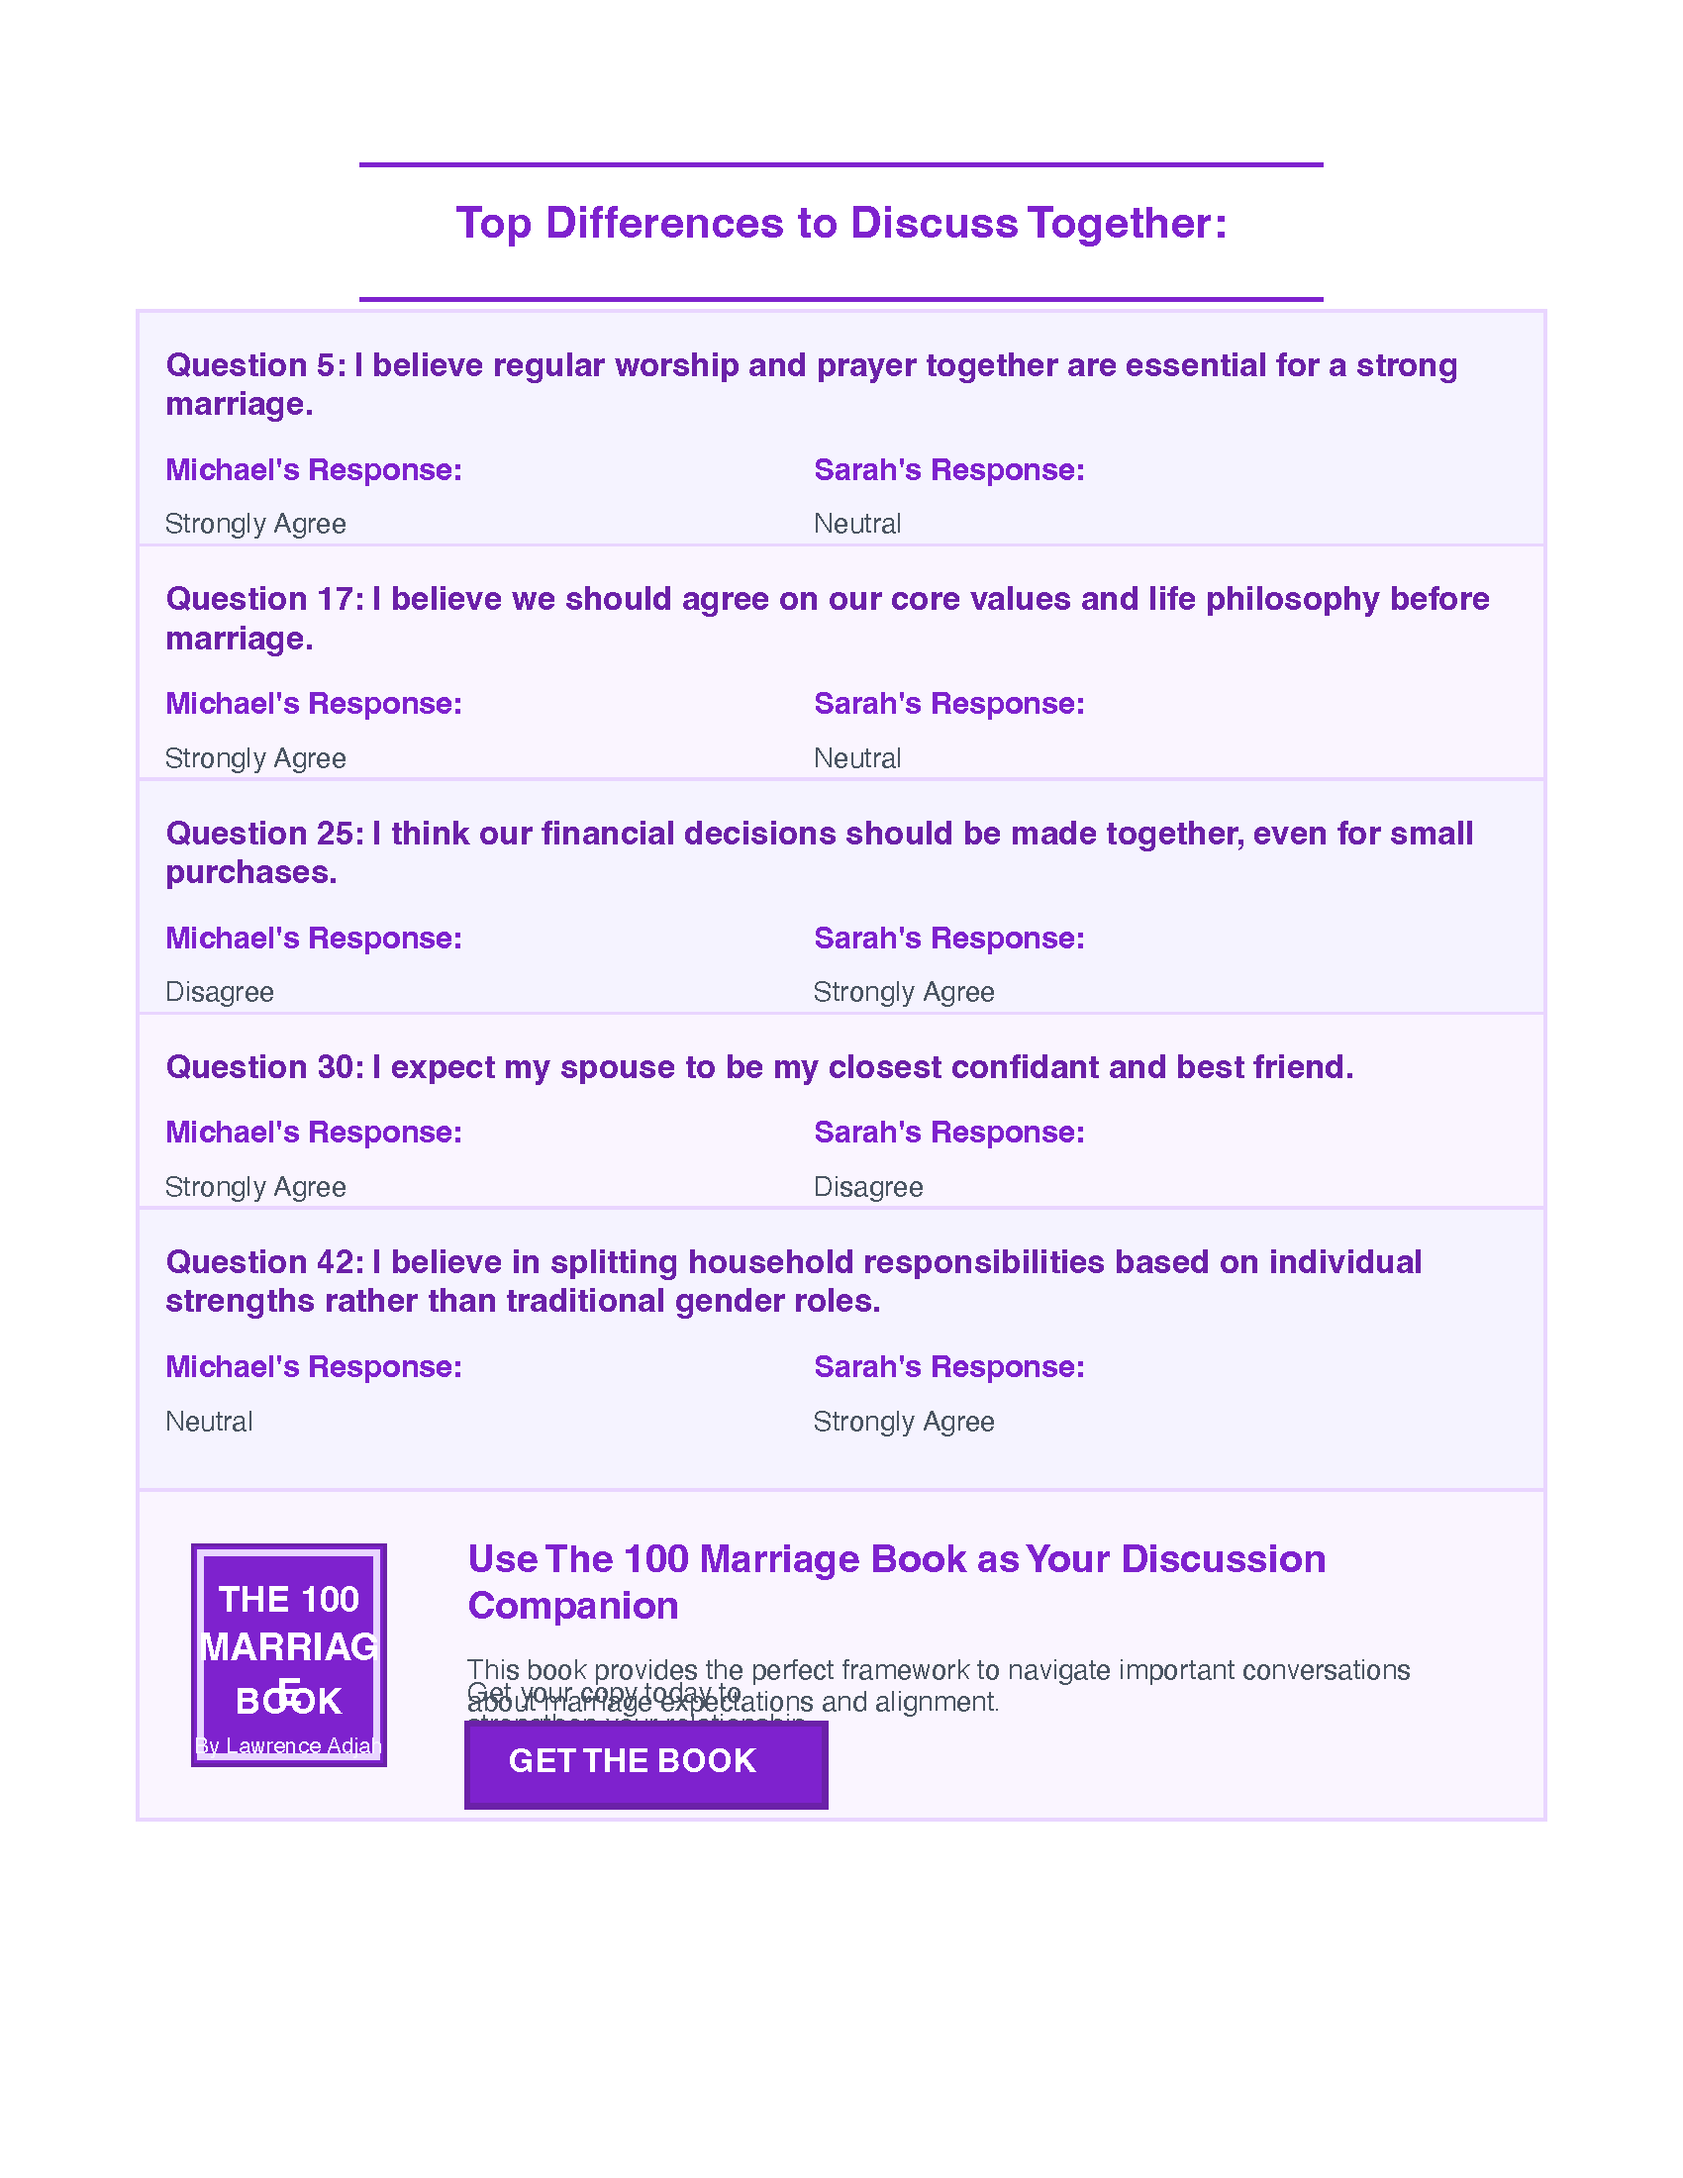
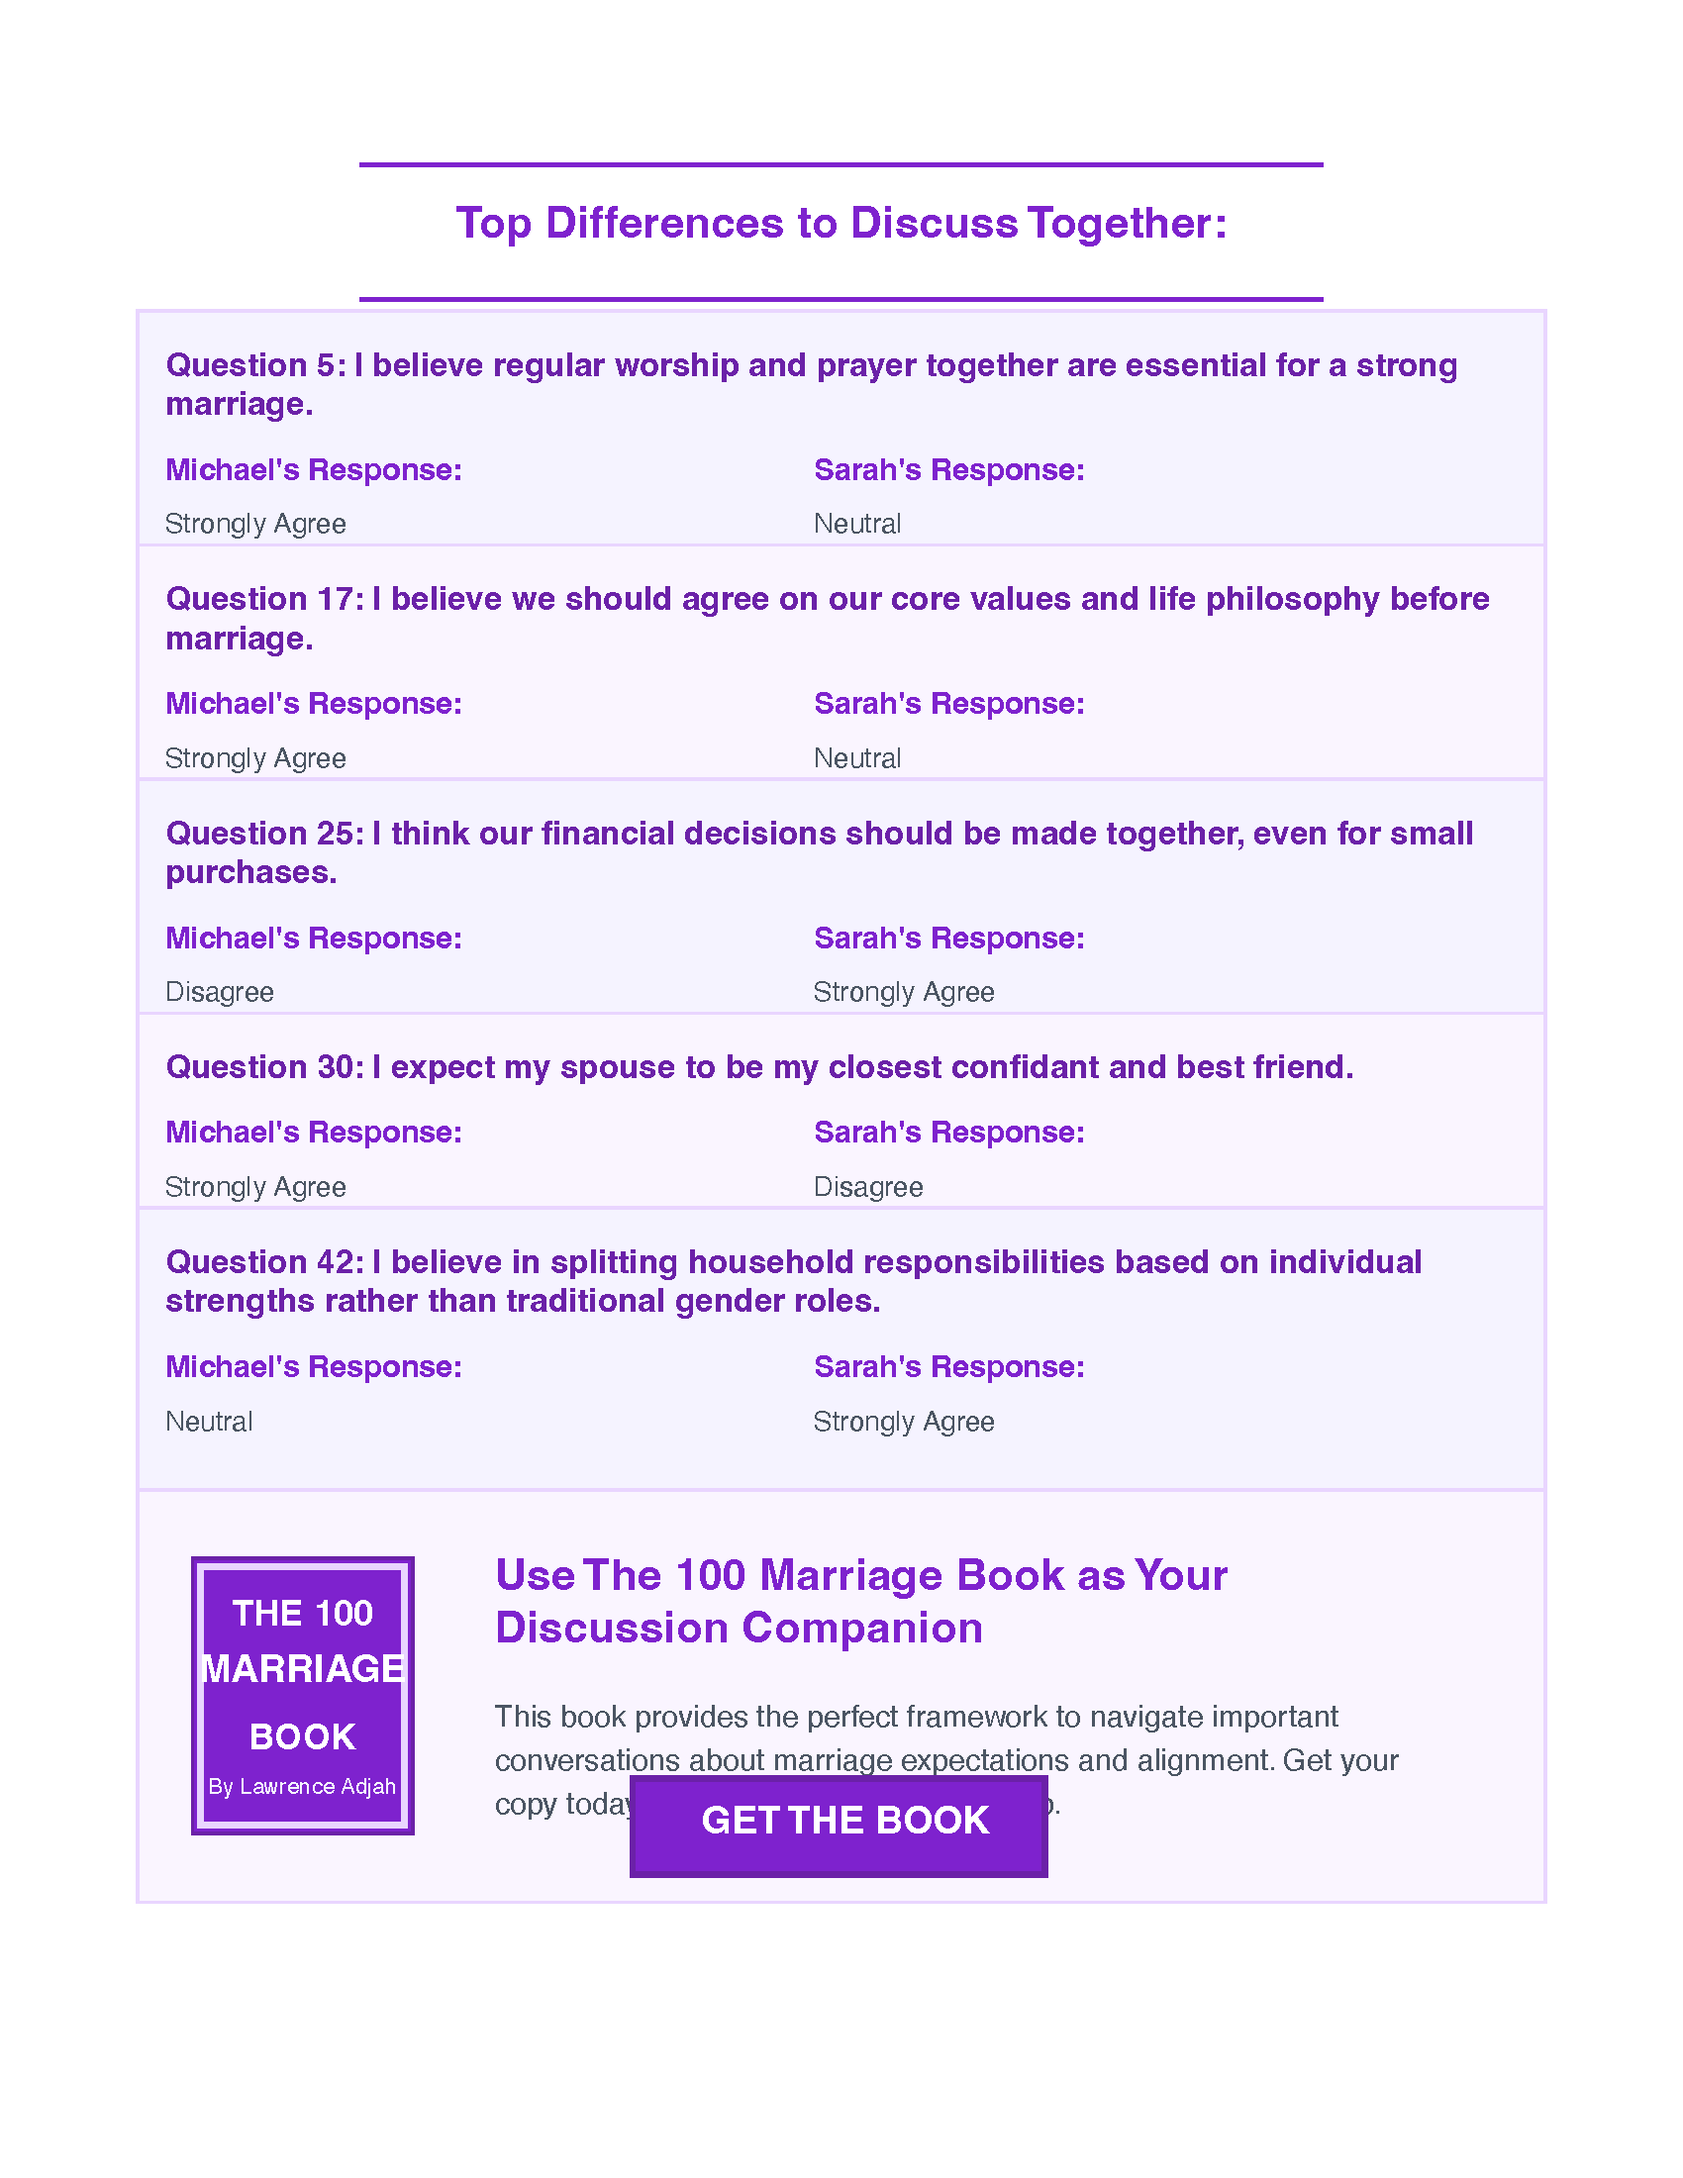
Fixes overlapping text on a PDF
Fixed overlapping text and button in the generated PDF report by adjusting text width and button positioning in `server/pdf-generator.ts`.  The text was split and additional spacing was added.

Replit-Commit-Author: Agent
Replit-Commit-Session-Id: 492eb244-359e-4859-b52c-eb3875ae00ca
Replit-Commit-Screenshot-Url: https://storage.googleapis.com/screenshot-production-us-central1/8ed5d051-ce9f-4798-a0bc-e6401a356f7c/a5495459-aab3-4d72-baa3-9f73d4811bc0.jpg

Changed region(s): [[0.0935, 0.7109, 0.7794, 0.8655], [0.6547, 0.7727, 0.7794, 0.8345]]

diff --git a/server/pdf-generator.ts b/server/pdf-generator.ts
@@ -1421,24 +1421,39 @@ export async function generateCoupleAssessmentPDF(report: CoupleAssessmentReport
           lineBreak: false
         });
       
-      // Add description text with better formatting - wider width for comfortable reading
+      // Add description text with better formatting - width limited to prevent overlap with button
       doc.moveDown(0.8)
         .fontSize(11) // Slightly larger font
         .font('Helvetica')
         .fillColor('#4b5563')
-        .text('This book provides the perfect framework to navigate important conversations about marriage expectations and alignment. Get your copy today to strengthen your relationship.', {
+        .text('This book provides the perfect framework to navigate important conversations about marriage expectations and alignment.', {
           width: bookTextWidth,
           align: 'left',
           lineGap: 3 // Add more spacing between lines
         });
+        
+      // Add the second part of the text with sufficient spacing from button
+      doc.moveDown(0.5);
       
-      // Add a better styled button with more space
+      // Add a better styled button on the right side of the content for cleaner layout
       const buttonWidth = 150; // Wider button
       const buttonHeight = 35; // Taller button
-      const buttonX = bookTextX + 50; // Move button to center of text area
-      const buttonY = bookBoxY + bookBoxHeight - 45; // More space at bottom
       
-      // Draw button after positioning all text
+      // Position button at the bottom right of the text area
+      const buttonX = doc.page.width - 150 - 50; // Right side of page with margin
+      const buttonY = bookBoxY + bookBoxHeight - 45; // Position from bottom of box
+      
+      // Add the second part of text with no chance of overlap
+      doc.fontSize(11)
+        .font('Helvetica')
+        .fillColor('#4b5563')
+        .text('Get your copy today to strengthen your relationship.', {
+          width: bookTextWidth - 180, // Limit width to prevent overlap with button area
+          align: 'left',
+          lineGap: 3
+        });
+      
+      // Draw button
       doc.rect(buttonX, buttonY, buttonWidth, buttonHeight)
         .fillAndStroke('#7e22ce', '#6b21a8');
       
